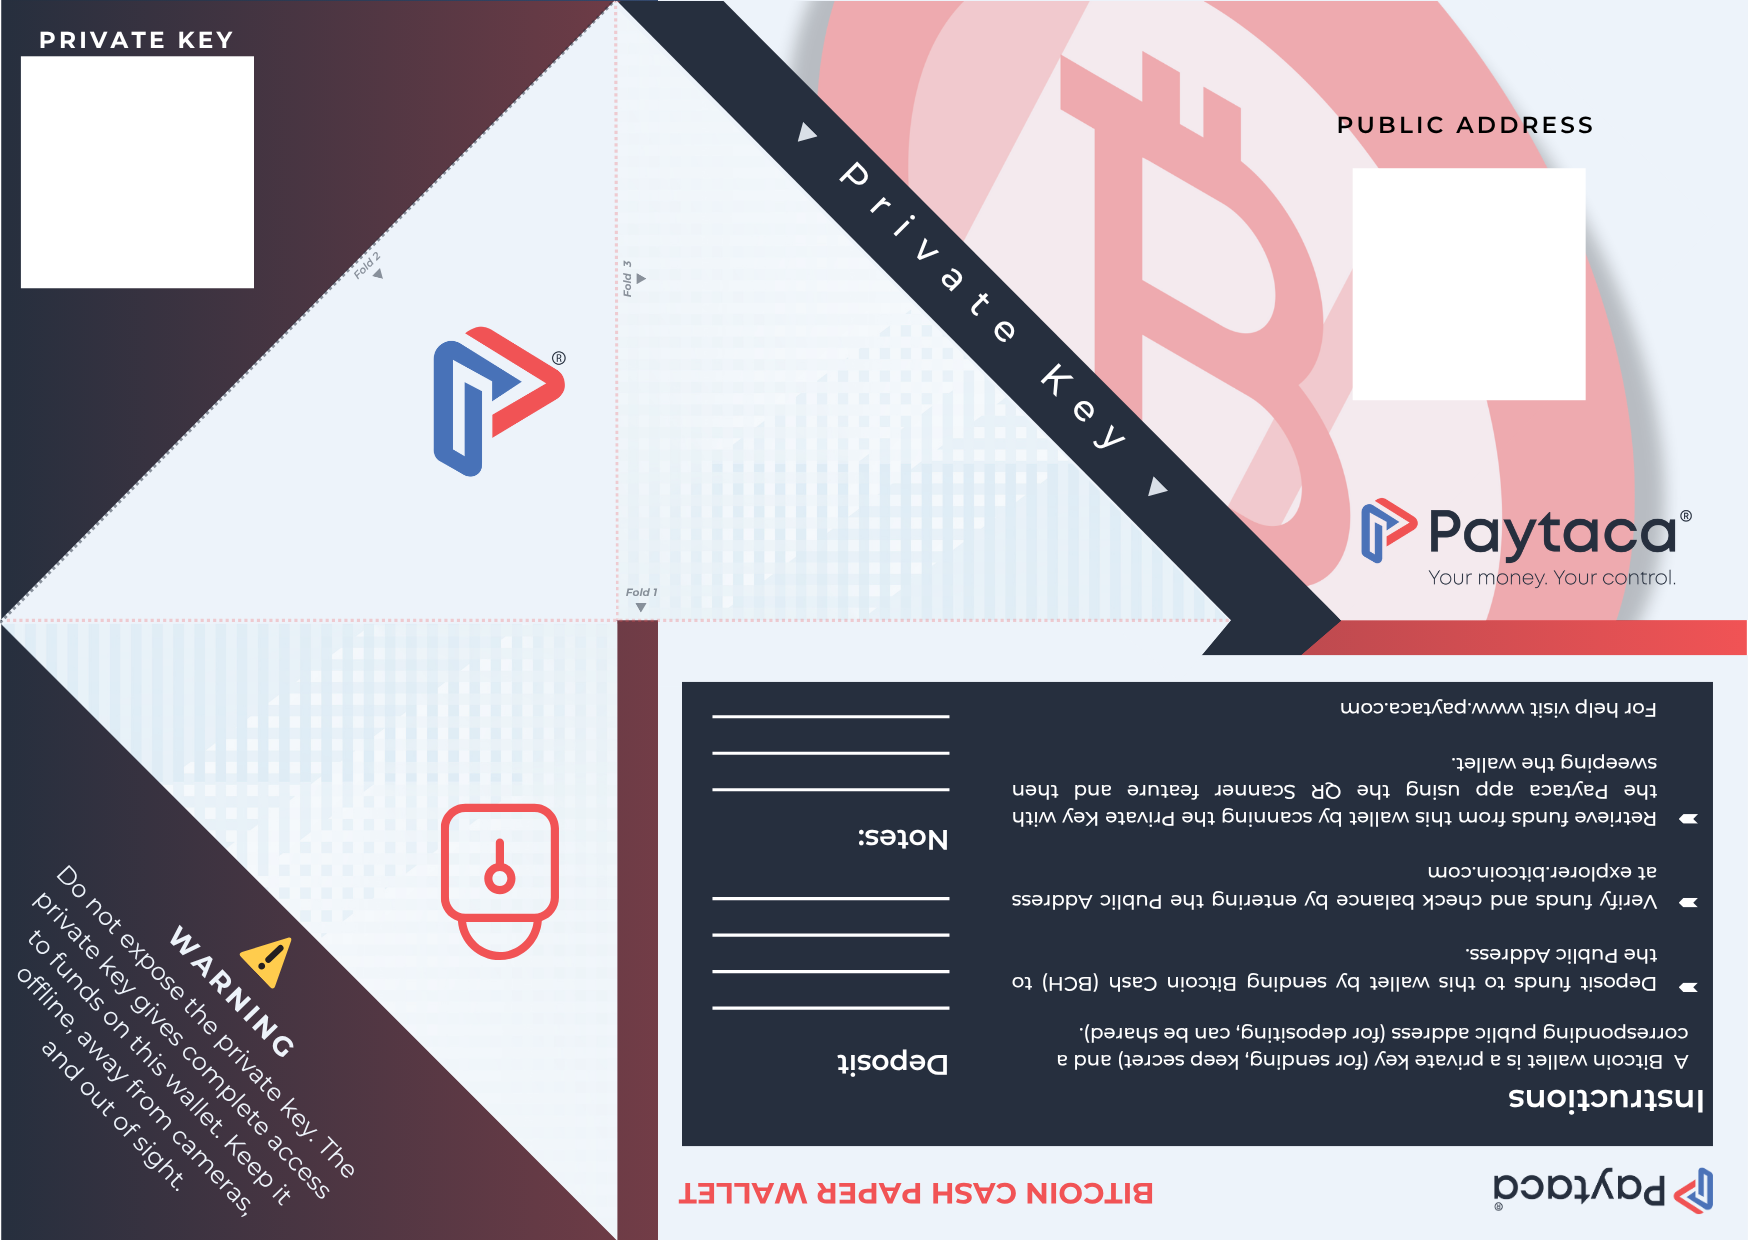
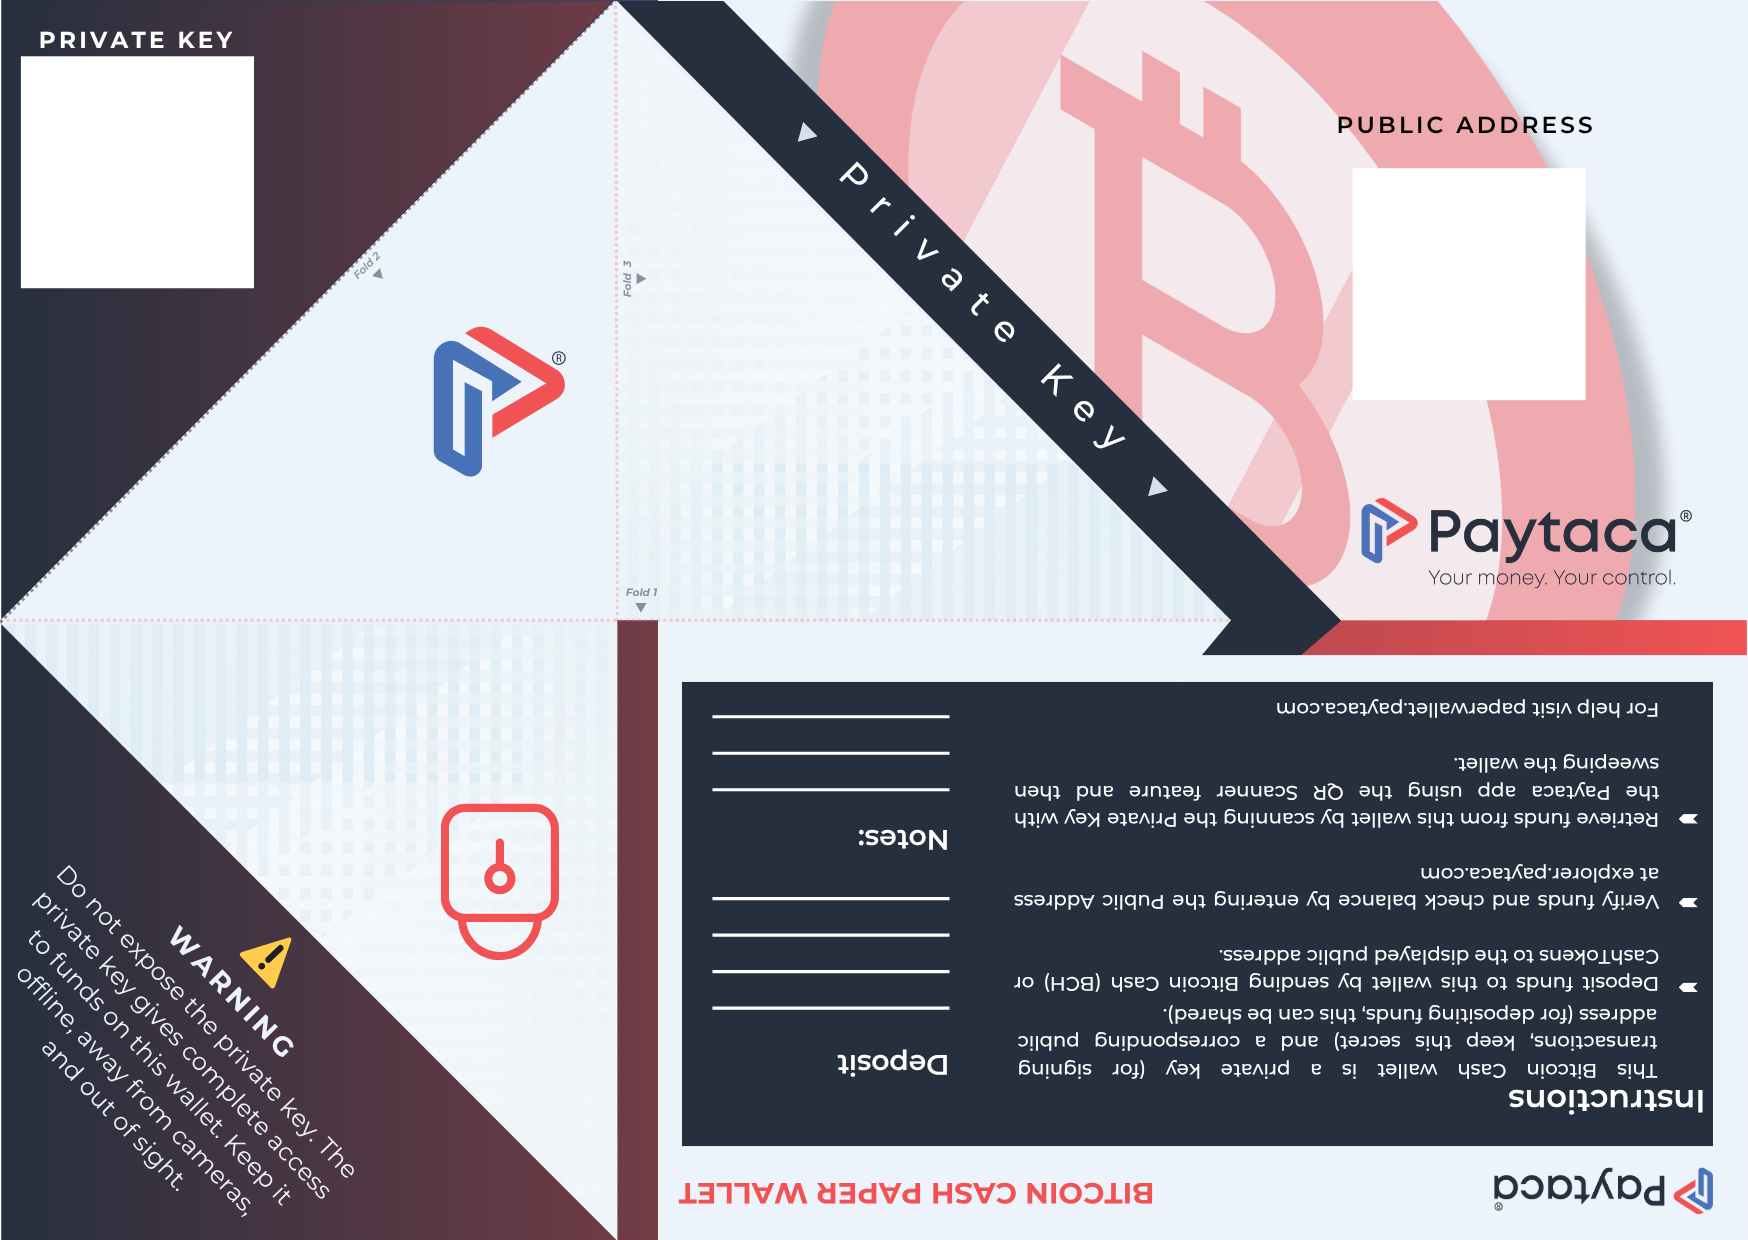
done replacing the text of paperwallet instruction section

Changed region(s): [[0.587, 0.7661, 0.9577, 0.8887], [0.587, 0.6129, 0.9577, 0.7355], [0.7414, 0.5516, 0.9577, 0.5823]]

diff --git a/src/layouts/WalletGenerator.vue b/src/layouts/WalletGenerator.vue
@@ -2886,7 +2886,7 @@ export default {
   /* QR Code Sections */
   .selected-design .qr-code {
     position: relative;
-    width: clamp(24vh, 6vw, 50px) !important;
+    width: clamp(8.5vh, 6vw, 15px) !important;
     max-width: 166%;
     height: auto;
     display: block;

diff --git a/src/layouts/LandingPage.vue b/src/layouts/LandingPage.vue
@@ -382,7 +382,7 @@ export default {
     height: 30px;
   }
   .header-padding-text {
-    font-size: 12px;
+    font-size: 16px;
   }
   .paper5-logo {
     height: 30px;
